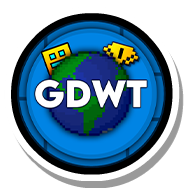
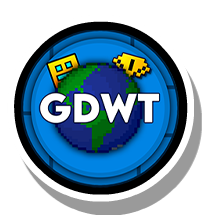
2024 GD World Champion added

diff --git a/src/hooks/ProfilePage.cpp b/src/hooks/ProfilePage.cpp
@@ -11,7 +11,8 @@ void GDWTProfilePage::loadPageFromUserInfo(GJUserScore* user) {
         9074168,
         9975327,
         5292934,
-        7194979
+        7194979,
+        1380770
     };
 
     for (int i = 0; i < managmentIDs.size(); i++)
@@ -22,12 +23,30 @@ void GDWTProfilePage::loadPageFromUserInfo(GJUserScore* user) {
         }
     }
 
+    std::vector<int> tourneyWinners2024IDs{
+        8303773,
+        6801276,
+        11860237,
+        5682434,
+        7664649,
+        4955259,
+        26556060,
+        2932785
+    };
+
+    for (int i = 0; i < tourneyWinners2024IDs.size(); i++)
+    {
+        if (tourneyWinners2024IDs[i] == user->m_accountID){
+            addTourneyWinners2024Badge(username_menu);
+            break;
+        }
+    }
+
     username_menu->updateLayout();
 }
 
 void GDWTProfilePage::addManagmentBadge(CCMenu* m){
-    auto yourBadge = CCSprite::create("GDTW-Button.png"_spr);
-    yourBadge->setScale(0.55f);
+    auto yourBadge = CCSprite::create("GDWT-Staff-Badge.png"_spr);
     auto bButton = CCMenuItemSpriteExtra::create(
         yourBadge,
         nullptr,
@@ -40,5 +59,22 @@ void GDWTProfilePage::addManagmentBadge(CCMenu* m){
 
 void GDWTProfilePage::managmentBadgeClicked(CCObject*){
     auto alert = FLAlertLayer::create("GDWT Managment", "This user is a member of the <cy>GD World Tournament management team</c>.\n\nThey are responsible for <cg>overseeing and creating</c> various GD World Tournament events, along with <co>developing systems</c> to further help the project as a whole.", "OK");
+    alert->show();
+}
+
+void GDWTProfilePage::addTourneyWinners2024Badge(CCMenu* m){
+    auto yourBadge = CCSprite::create("24_GDWT_Champion_Badge.png"_spr);
+    auto bButton = CCMenuItemSpriteExtra::create(
+        yourBadge,
+        nullptr,
+        this,
+        menu_selector(GDWTProfilePage::tourneyWinners2024BadgeClicked)
+    );
+    bButton->setID("gdwt2024worldchampion-badge");
+    m->addChild(bButton);
+}
+
+void GDWTProfilePage::tourneyWinners2024BadgeClicked(CCObject*){
+    auto alert = FLAlertLayer::create(nullptr, "2024 GD World Champion", "This player was a member of the South Korea team for the <cl>2024 GD World Tournament</c>. After battling to get out of their group in the group stage, they defeated <cr>Canada</c>, <cb>France</c>, and finally <cg>Mexico</c> to become champions of the inaugural <cl>GD World Tournament</c>.\n\nThe team consisted of <cy>Baeru</c>, <cy>Clutter</c>, <cy>Laniakea</c>, <cy>PoCle</c>, <cy>Guraud</c>, <cy>hanni</c>, <cy>IcaroX</c>, and <cy>Knicide</c>", "OK", nullptr, 400, false, 200, 1);
     alert->show();
 }

diff --git a/src/hooks/MenuLayer.cpp b/src/hooks/MenuLayer.cpp
@@ -16,7 +16,6 @@ bool GDWTMenuLayer::init() {
 	auto BMenu = this->getChildByID("bottom-menu");
 
     auto GDWTButtonSprite = CCSprite::create("GDTW-Button.png"_spr);
-    GDWTButtonSprite->setScale(1.1f);
 	auto GDWTButton = CCMenuItemSpriteExtra::create(
 		GDWTButtonSprite,
 		this,

diff --git a/src/hooks/ProfilePage.hpp b/src/hooks/ProfilePage.hpp
@@ -10,4 +10,8 @@ class $modify(GDWTProfilePage, ProfilePage) {
         void managmentBadgeClicked(CCObject*);
 
         void addManagmentBadge(CCMenu* m);
+
+        void addTourneyWinners2024Badge(CCMenu* m);
+
+        void tourneyWinners2024BadgeClicked(CCObject*);
 };

diff --git a/changelog.md b/changelog.md
@@ -1,3 +1,6 @@
+# 1.1.2
+- added the "2024 GD World Champion" badge!!!!!!
+
 # 1.1.1
 - fixed an issue where players that switched teams would mess up match scores
 
